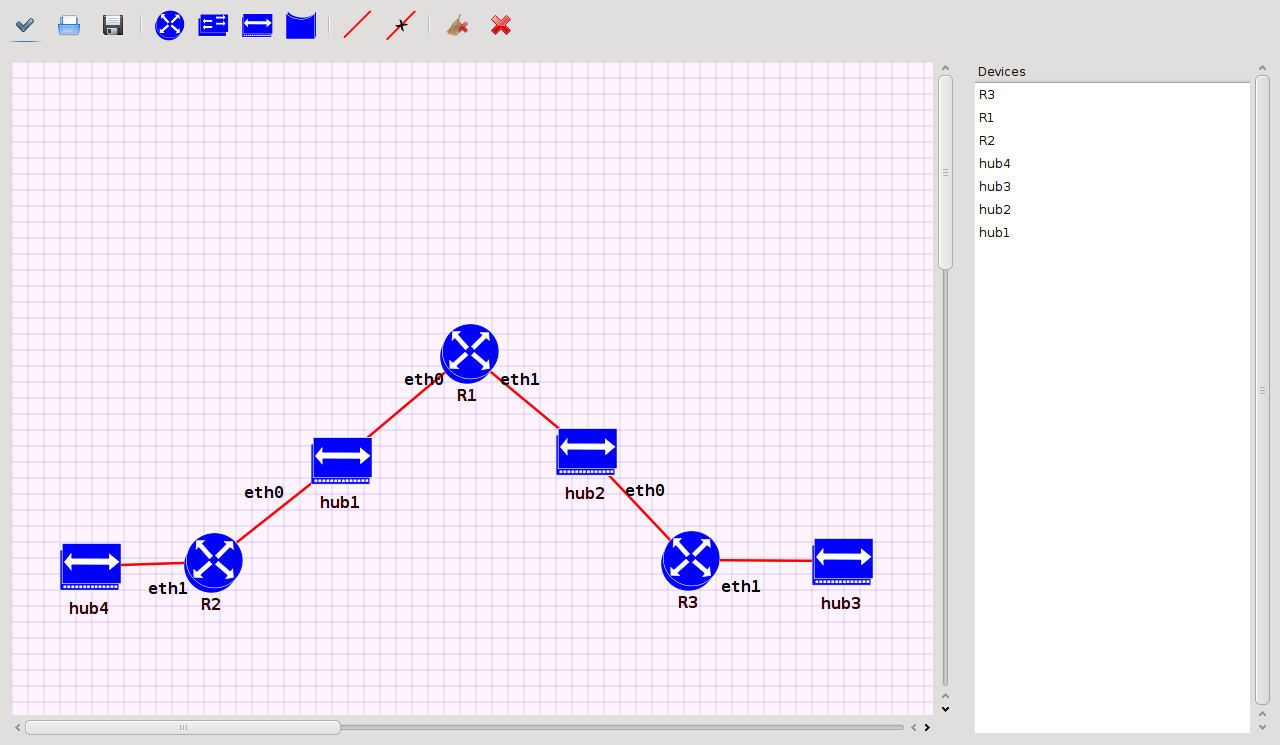
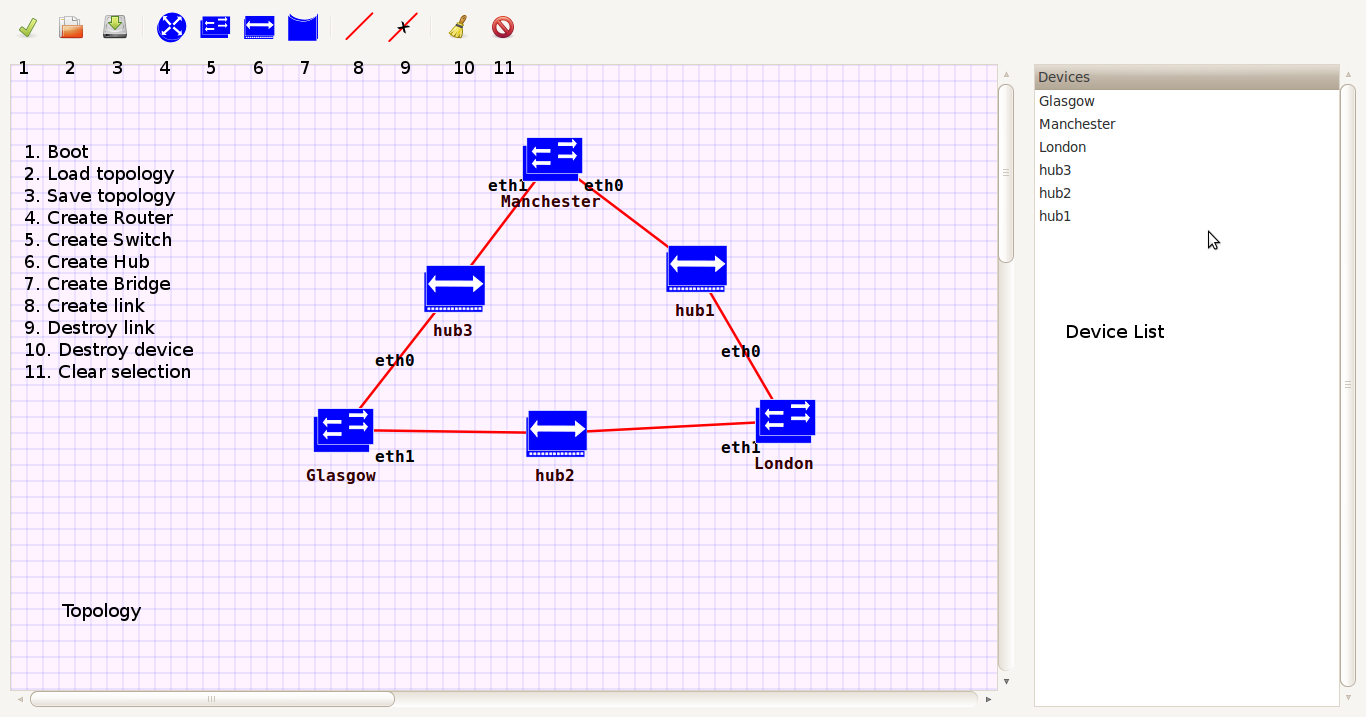
asdafa

diff --git a/src/chapters/impl.tex b/src/chapters/impl.tex
@@ -1,51 +1,65 @@
 \chapter{Implementation}
 \label{chapter:impl}
 
-The linux kernel offers great support for turning an ordinary computer into a network
-device. It allows to modify the routing table through NETLINK sockets, creating
-and destroying virtual bridging interfaces, adding and removing firewall rules through 
-iptables. I used some of these capabilities to implement the devices described in this 
-chapt	
+The linux kernel offers great support for turning an ordinary
+computer into a network device. It allows to modify the routing 
+table through NETLINK sockets, creating and destroying virtual 
+bridging interfaces, adding and removing firewall rules through 
+iptables. I used some of these capabilities to implement the 
+devices described in this chapter.
 
 \section{Network driver}
 \label{sec:net-driver}
 
 \fig[scale=0.5]{src/img/driver.pdf}{img:eth-driver}{Network driver}
 
-The network driver is split into two separate parts: a LKL part and a native part.
+The network driver is split into two separate parts: a LKL part 
+and a native part.
 
-The lkl part takes care of the interaction with the lkl kernel. It encapsulates
-and decapsulates the packets for the kernel(encapsulates them in a struct sk_buff)
-and the native part.
+The lkl part takes care of the interaction with the lkl kernel.
+It encapsulates and decapsulates the packets for the kernel
+(encapsulates them in a struct sk_buff) and the native part.
 
-The native part uses native syscalls to assure communication between two devices.
-It can use any inter-process communication primitives like pipes, mail queues or sockets.
-For this implementation we have chosen to use sockets so that it will be possible
-to connect two devices on different computers.
+The native part uses native syscalls to assure communication 
+between two devices. It can use any inter-process communication 
+primitives like pipes, mail queues or sockets.
+For this implementation we have chosen to use 
+sockets so that it will be possible to connect two devices 
+on different computers.
+
+When the native part receives a packet, it processes it, taking apart
+the extra information added to it,  and sends it through an IRQ signal
+to the LKL part of the driver. When the LKL part of the driver receives it,
+it sends it trough the netif_rx function from the Linux kernel. When sending
+a packet, the process is reversed, communication between the LKL part and the
+native part being done through direct function calls.
 
 \section{Switch}
 \label{sec:switch-impl}
 
-In the next section a switch is called a bridge, as this the terminology used by the linux kernel.
+In the next section a switch is called a bridge, as this
+the terminology used by the linux kernel.
 
 \subsection{Linux support}
 \label{sub-sec:switch-lin}
 
-Linux offers support for bridging through virtual interfaces. A bridge interface
-can be create through code, as seen in \ref{lst:cbridgeadd}, or using the bridge-utils
-package:
+Linux offers support for bridging through virtual interfaces.
+A bridge interface can be create through code, as seen in 
+\ref{lst:cbridgeadd}, or using the bridge-utils package:
 \lstset{language=zsh,caption=Adding a bridge interface,label=lst:sbridgeadd}
 \begin{lstlisting}
   #> brctl add br0
 \end{lstlisting}
-Because the created interface is a virtual one, it cannot be used by itself to receive packats
-from the network. In order to do this, physical interfaces must be added to the bridge. This 
+Because the created interface is a virtual one, it cannot be
+used by itself to receive packats from the network. In order 
+to do this, physical interfaces must be added to the bridge. This 
 can be done using brctl:
 \lstset{language=zsh,caption=Adding a bridge interface,label=lst:sportadd}
 \begin{lstlisting}
   #> brctl addif br0 eth0
 \end{lstlisting}
-where br0 is the name of the virtual interface and eth0 the name of the physical one.
+where br0 is the name of the virtual interface and eth0 the 
+name of the physical one.
 
 Other features:
 \begin{itemize}
@@ -85,6 +99,30 @@ An example of adding a new bridge interface:
 
 \subsection{Device tests}
 \label{sub-sec:switch-tests}
+
+For testing the capabilities of the switch we have done a small test containg a few switches. We will attach two LKL programs at the Glasgow and London switches to see if the can exchange packets through the switches. STP will be enabled so we will take a look at it too.
+
+The topology consists of three switches(London, Glasgow and Manchester) connected in a triangle. Each connection between them is done through a hub, but they will not taken into consideration for the test:
+
+\fig[scale=0.5]{src/img/switches.png}{img:switches}{Switch test}
+
+\begin{center}
+  \begin{table}[htb]
+  \begin{center}
+  \begin{tabular}{| l | l | l | l | l |}
+    \hline
+      Hostname & Interface & MAC & Interface & MAC \\ \hline
+      London & eth0 & 66:44:00:40:02:01 & eth1 & 66:44:00:30:02:02 \\ \hline
+      Glasgow & eth0 & aa:bb:cc:60:01:01 & eth1 & aa:bb:cc:50:01:02 \\ \hline
+      Manchester & eth0 & 00:11:22:10:03:01 & eth1 & 00:11:22:20:03:02 \\
+    \hline
+  \end{tabular}
+  \end{center}
+  \caption{LKL-net devices}
+  \label{table:tdevices}
+  \end{table}
+\end{center}
+
 
 \section{Firewall}
 \label{sub-sec:firewall-impl}
@@ -238,15 +276,30 @@ for a complete listing of available commands) to configure the device. Starting 
 devices and configuring them can a time-consuming task, so we decided on building a GUI application to visualise and configure
 the topology, as well as starting and stoping the devices.
 
-\fig[scale=0.44]{src/img/gui.png}{img:gui}{GUI}
+\fig[scale=0.33]{src/img/gui.png}{img:gui}{GUI}
 
-THe GUI was built using the GTK library\footnote{\url{http://www.gtk.org/}}. For the topology we created a new GTK widget
+
+The GUI was built using the GTK library\footnote{\url{http://www.gtk.org/}}. For the topology we created a new GTK widget
 that allows us to create and place new devices in the topology as well as creating links between them. In order to draw
 the devices on the topology we used the Cairo library, which can be used to draw on GTK widget.
 
 Apart from creating the network topology, the GUI can be used to do some of the configuration of the devices. This is 
 more user-friendly than the command line interface used in the devices, so some user might prefer it. Users can also see
 the saved configuration of the devices.
+
+\begin{enumerate}
+  \item Boot. Used to start the topology. 
+  \item Load topology. 
+  \item Save topology
+  \item Create Router
+  \item Create Switch
+  \item Create Hub
+  \item Create Bridge
+  \item Create link
+  \item Delete link
+  \item Destroy device
+  \item Clear selection
+\end{enumerate}
 
 \section{Console and configuration file}
 \label{sec:dev-conf}

diff --git a/src/chapters/arch.tex b/src/chapters/arch.tex
@@ -34,10 +34,15 @@ be see in \figref{img:lkl} there are LKL environments for POSIX, APR, Win32 and 
 \subsection{Network driver}
 \label{sub-sec:net-driver}
 
-A network driver is a driver that commands a NIC. Because \textbf{\project} does not use physical interfaces
-the driver used by \textbf{\project} is a purely virtual one. As all drivers implemented in \textbf{LKL} 
-it is split into two parts, a kernel part(LKL) and a native part. Communication between the two parts
+A network driver is a driver that commands a NIC. Because 
+\textbf{\project} does not use physical interfaces
+the driver used by \textbf{\project} is a purely virtual 
+one. As all drivers implemented in \textbf{LKL} 
+it is split into two parts, a kernel part(LKL) and 
+a native part. Communication between the two parts
 is done through function calls and IRQs.
+Devices make syscalls to the driver in order to create and
+destroy interfaces and to change their state( UP or DOWN).
 
 \section{LKL-net}
 \label{sec:lkl-net}

diff --git a/src/chapters/intro.tex b/src/chapters/intro.tex
@@ -4,7 +4,9 @@
 \section{Project Description}
 \label{sec:proj}
 
-\project
+\textbf{\project} builds on the capabilities offered by the \textbf{Linux Kernel Library} to create
+a complex network simulator capable of simulating end-to-end a complex network and a large number
+of devices.
 
 \subsection{Project Scope}
 \label{sub-sec:proj-scope}
@@ -16,8 +18,10 @@ research
 \subsection{Project Objectives}
 \label{sub-sec:proj-objectives}
 
+
+
 The system shouldn't be isolated from the outside world. It would be advantageous to be able
-to include applications outside the LKL ecosystem;
+to include applications outside the LKL ecosystem.
 
 \section{Related Work}
 \label{sec:proj-related}
